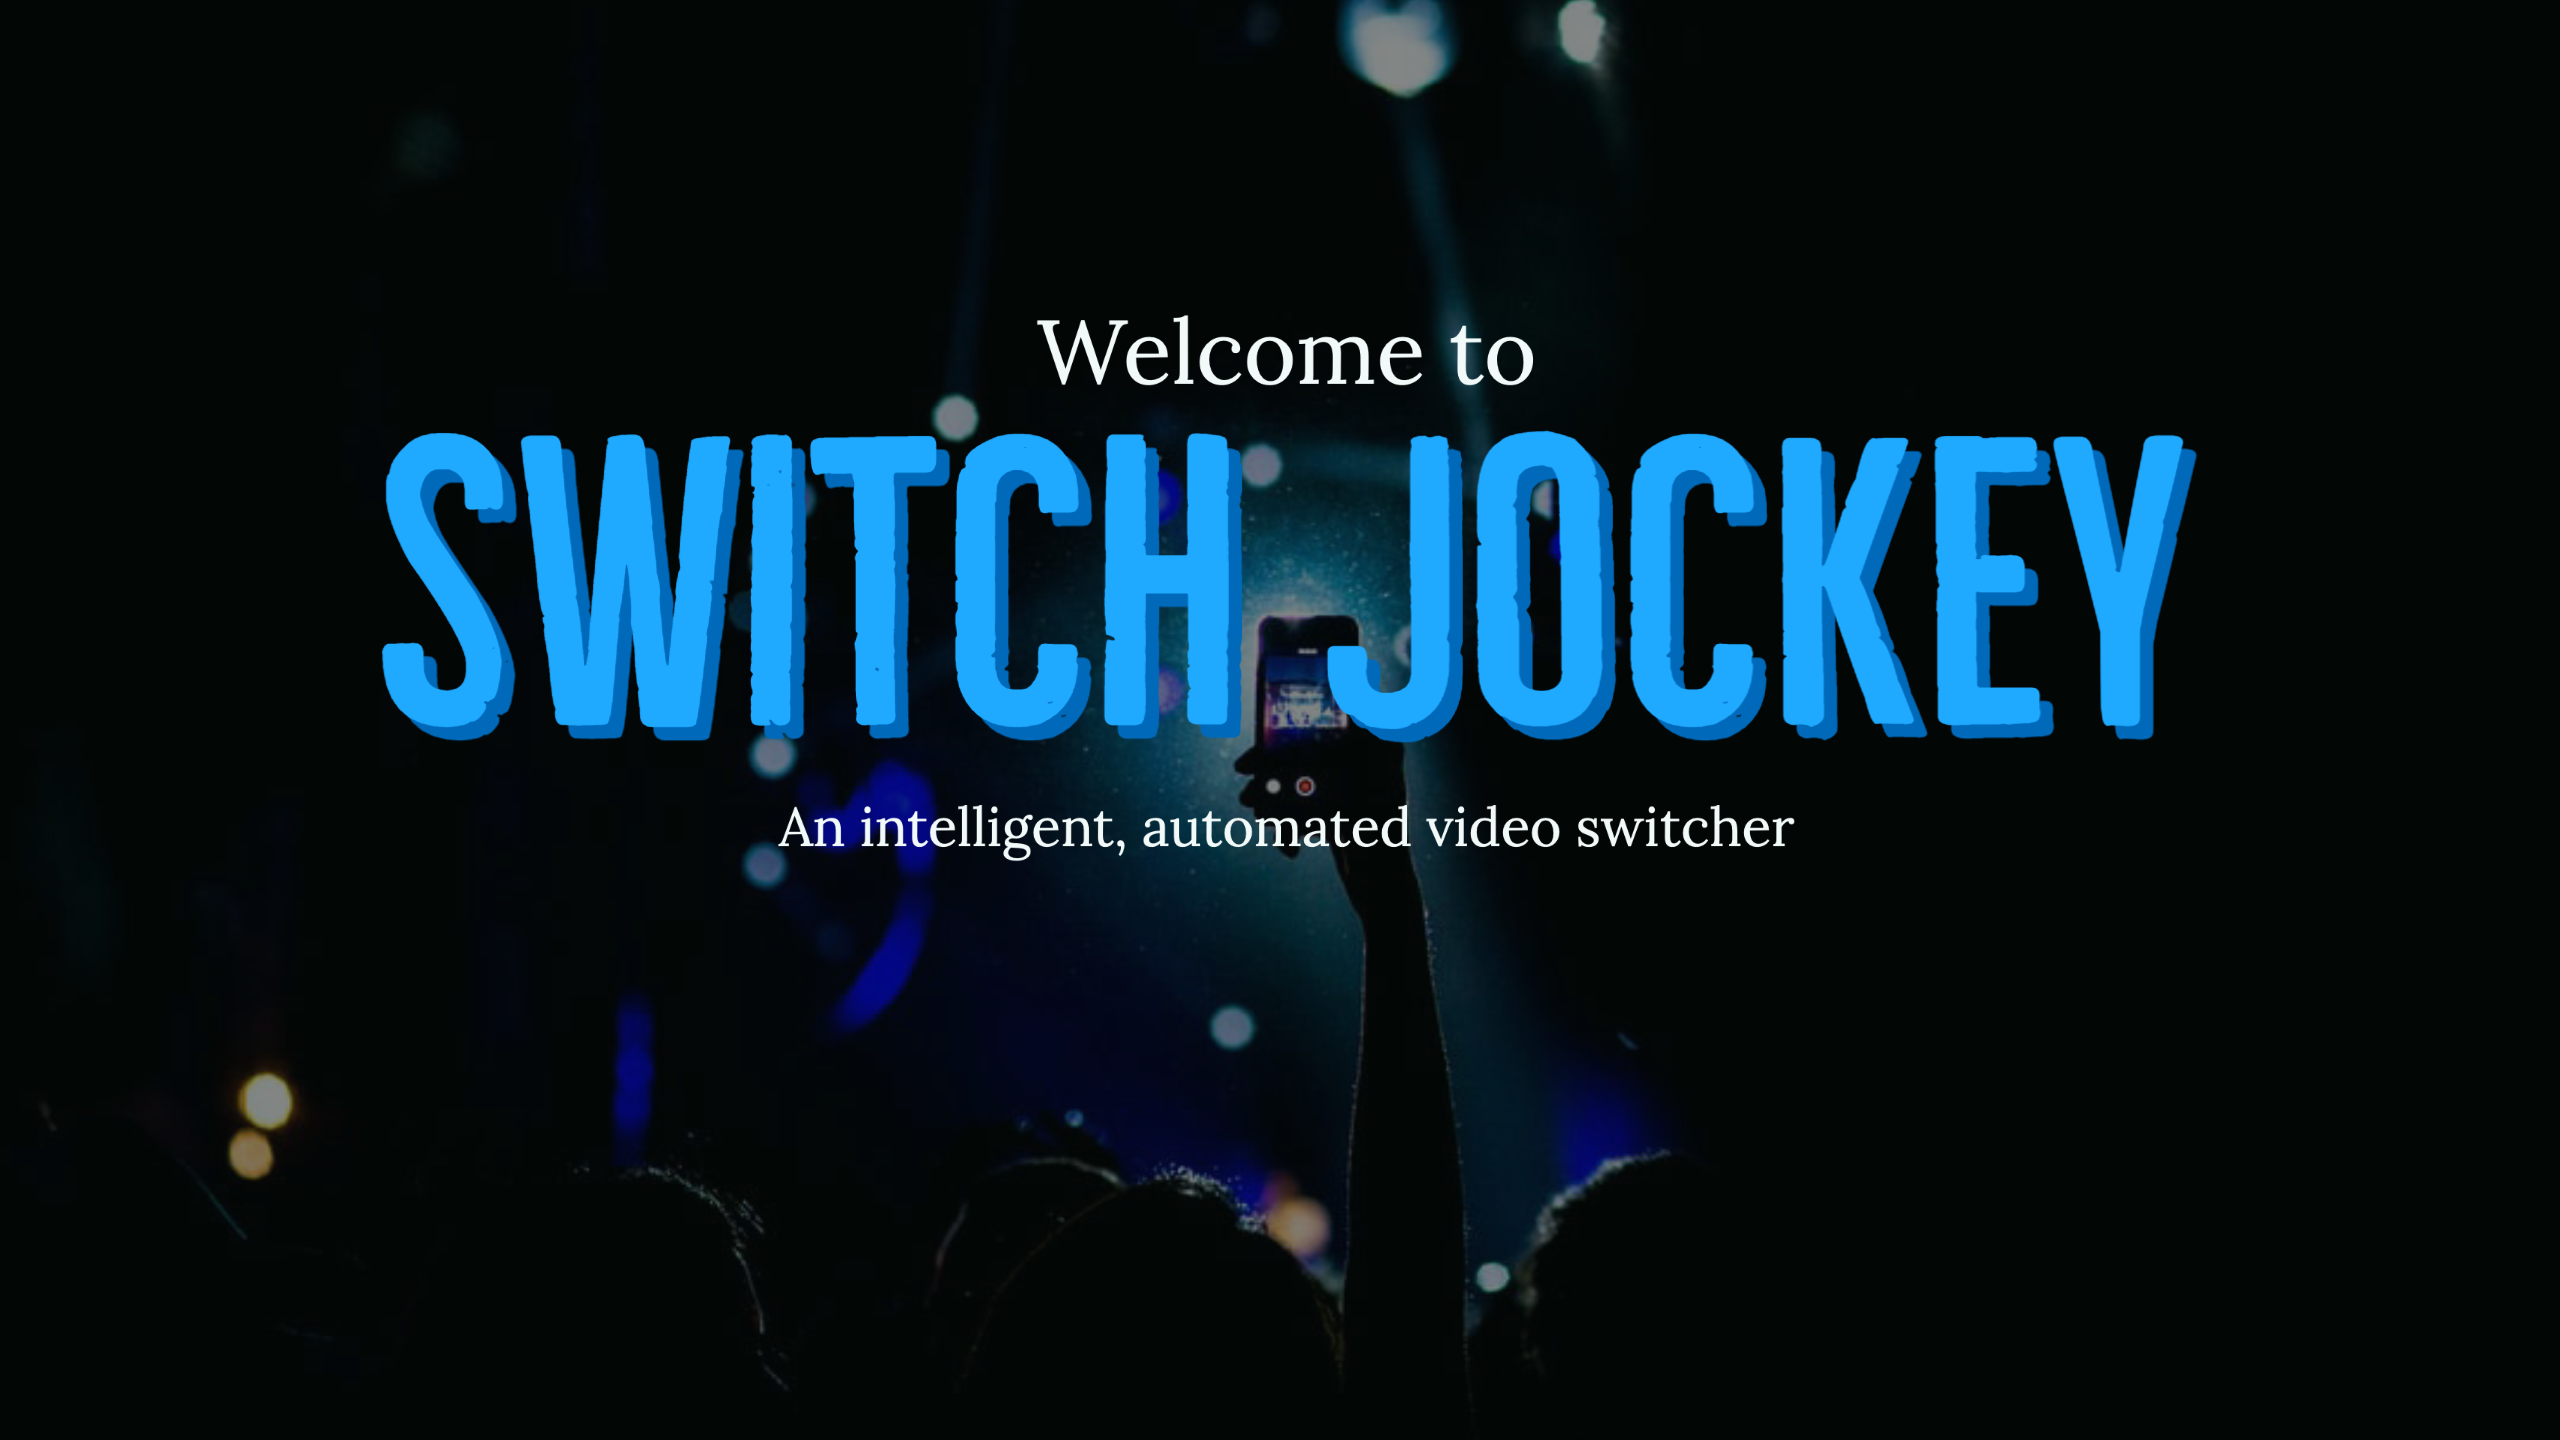
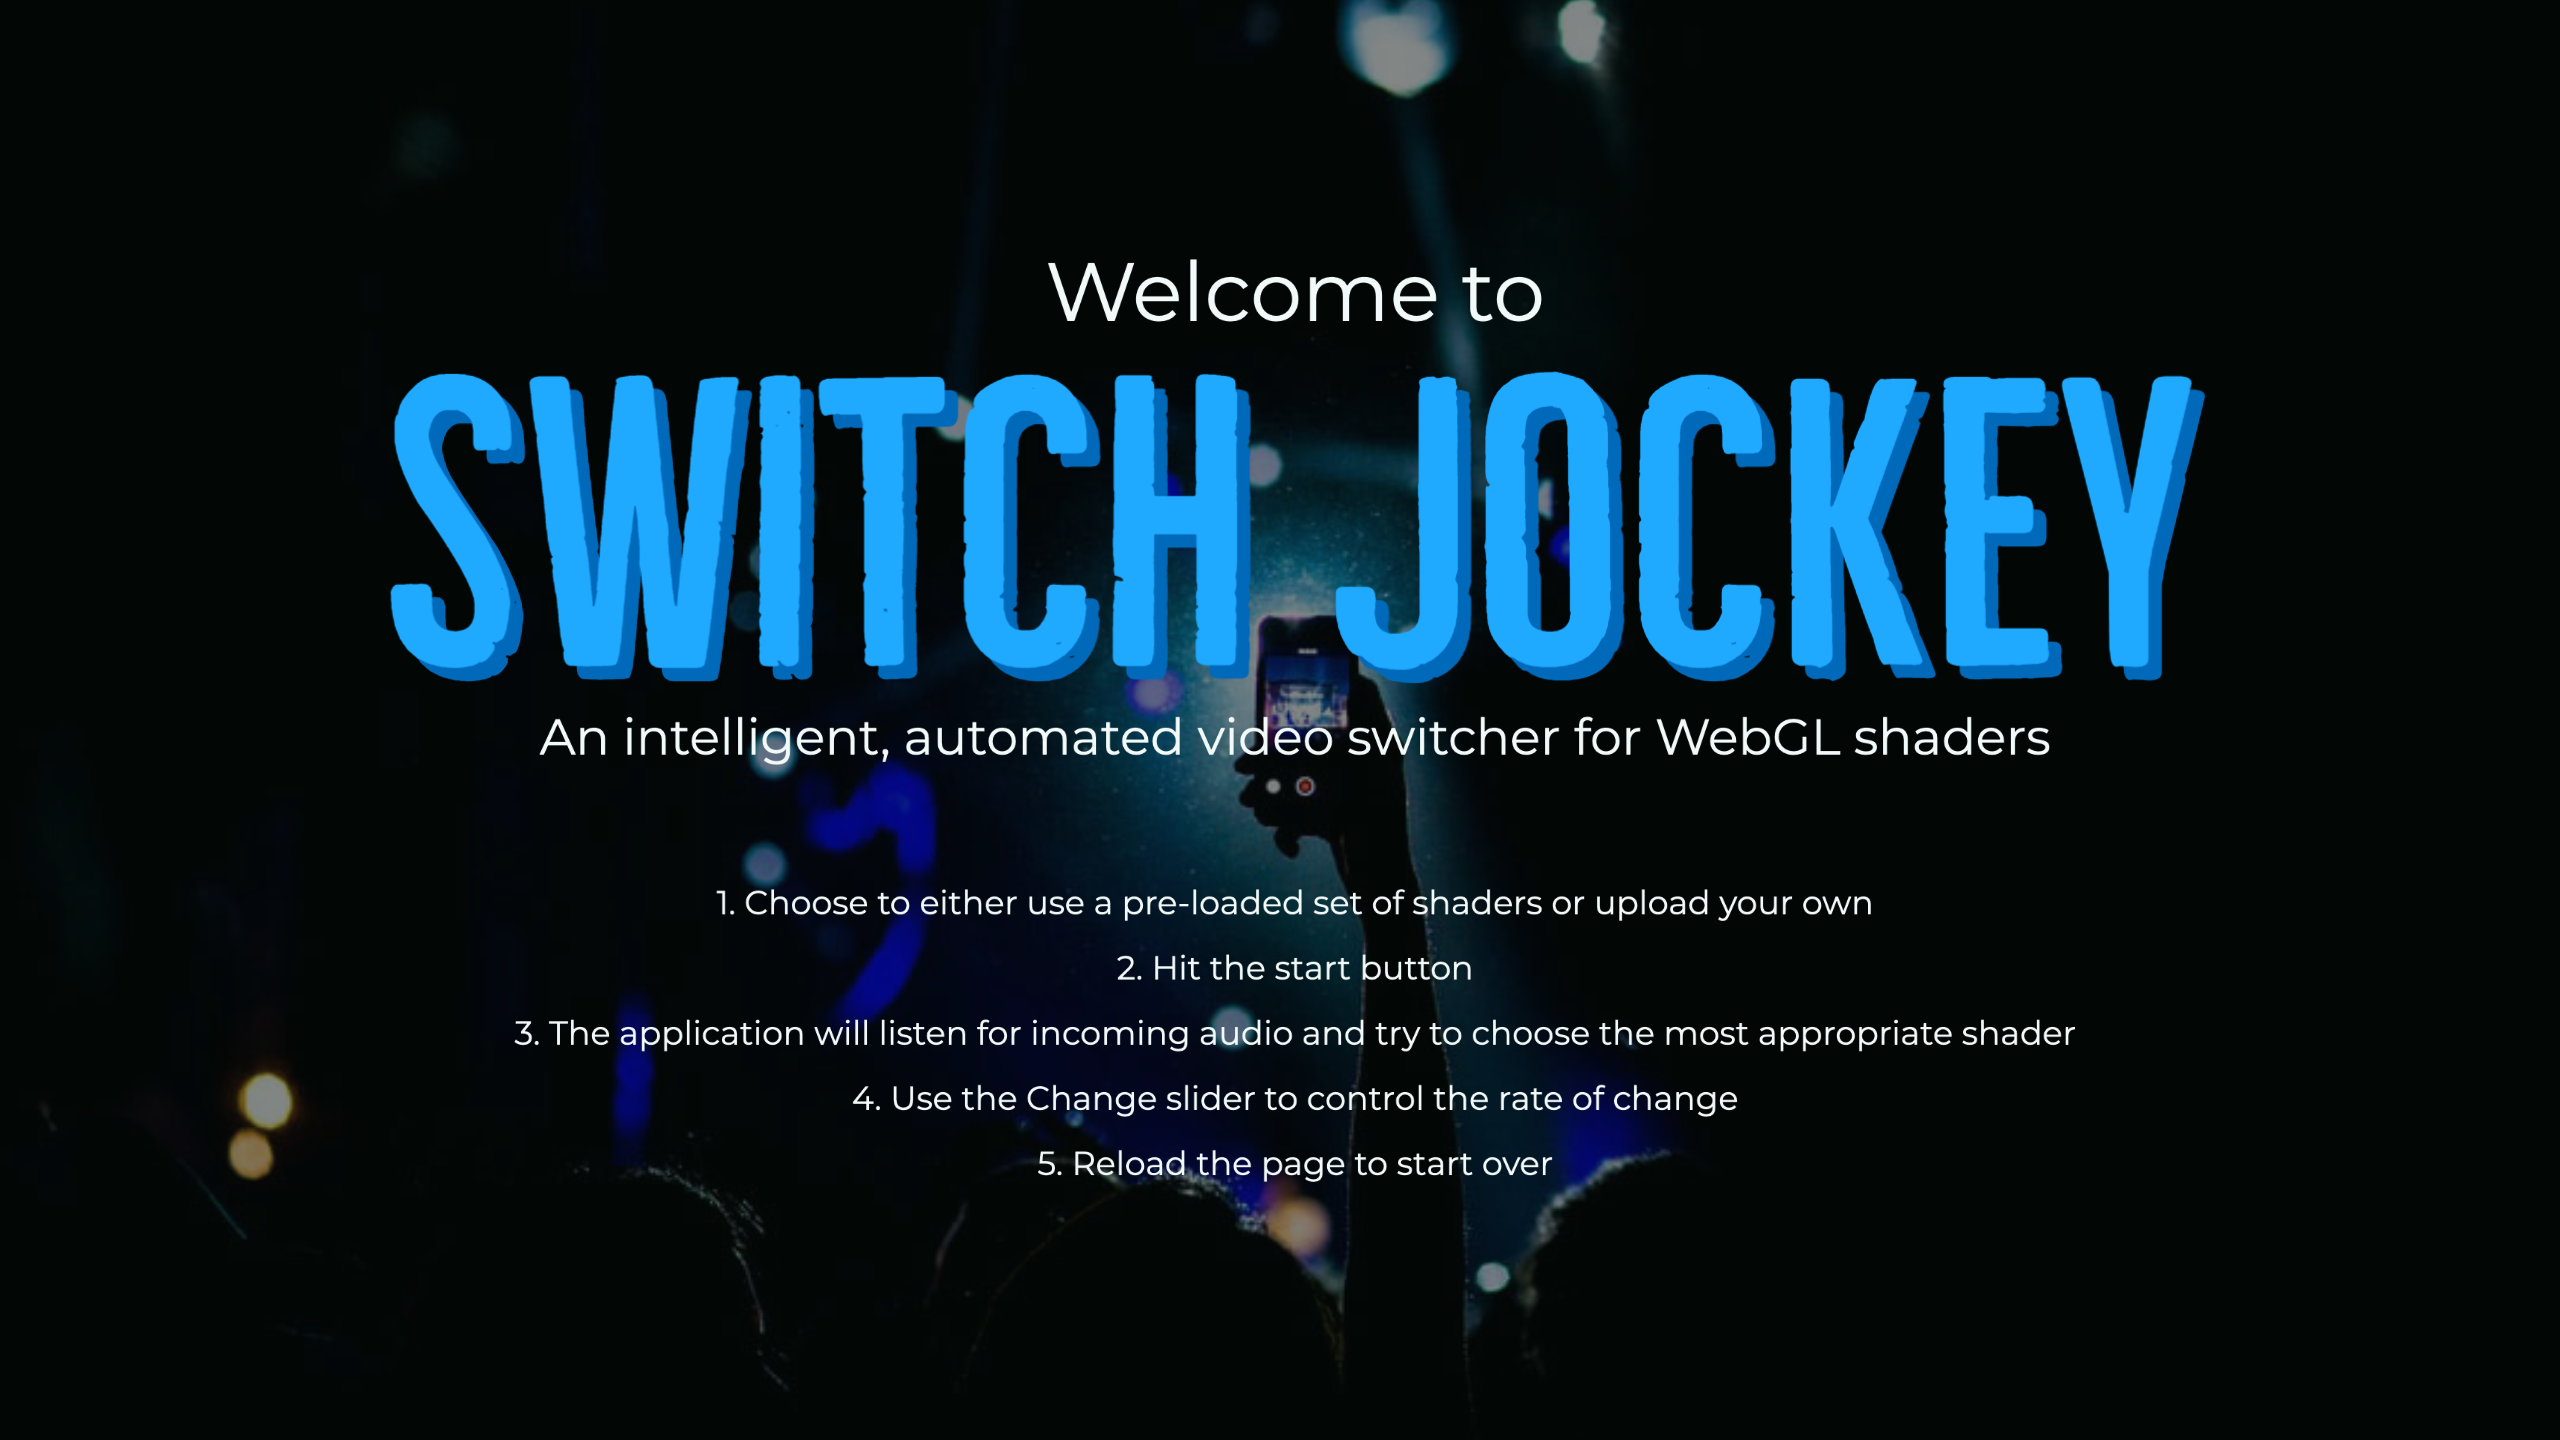
Update background image again and add github link

diff --git a/scripts/display.js b/scripts/display.js
@@ -14,7 +14,7 @@ function toggleSliders() {
 }
 
 function hideSettings() {
-  let elementsToHide = ["labelChoose", "sets", "labelCustom", "customSet", "startButton"];
+  let elementsToHide = ["ghLink", "labelChoose", "sets", "labelCustom", "customSet", "startButton"];
   for (element = 0; element < elementsToHide.length; element++) {
     let x = document.getElementById(elementsToHide[element]);
     x.style.display = "none";

diff --git a/index.html b/index.html
@@ -18,6 +18,9 @@
   </head>
   <body>
     <div class="bg" id="bg">
+      <div class="setup" id="ghLink">
+        <a href="https://github.com/amaclean199/switch-jockey" target="_blank">https://github.com/amaclean199/switch-jockey</a>
+      </div>
       <div class="setup">
         <label for="sets" id="labelChoose">Choose a provided set:</label>
         <select name="sets" id="sets">

diff --git a/styles/style.css b/styles/style.css
@@ -9,6 +9,16 @@ button, select {
   font-family: "Lucida Console", Courier, monospace;
 }
 
+a {
+  float: right;
+}
+
+a:visited {
+  color: pink;
+  background-color: transparent;
+  text-decoration: none;
+}
+
 #c {
   width: 100% !important;
   height: 100% !important;
